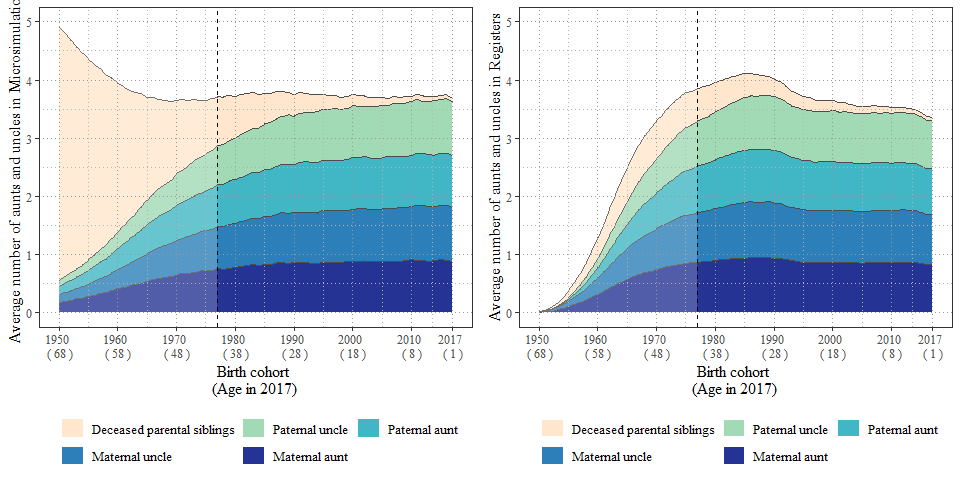
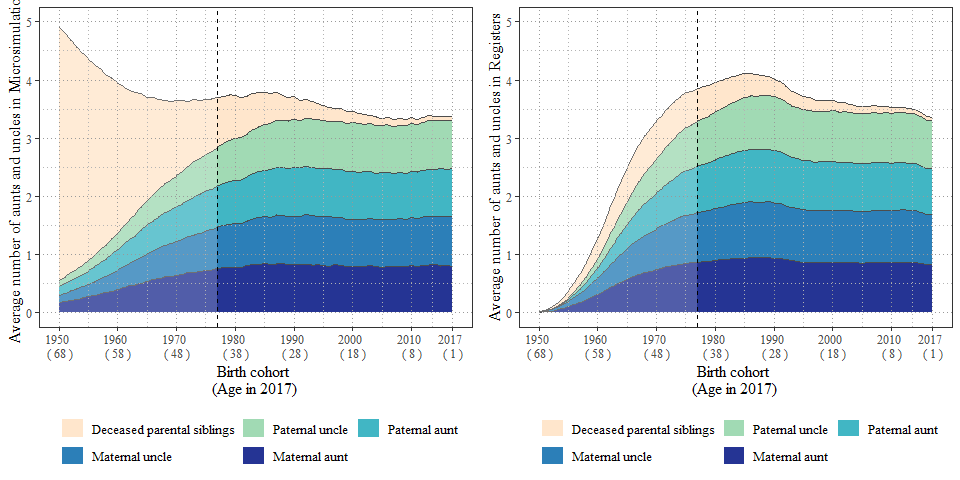
Update Rmd and figures with the simulation using parity-specific rates

diff --git a/3_Compare_Figures.md b/3_Compare_Figures.md
@@ -1,61 +1,62 @@
-Kinship networks over time: comparing Swedish population registers and
-microsimulation outputs. (With no heterogeneous fertility)
+Empirical and microsimulated kinship networks. Comparing and evaluating
+estimates on micro-level data on kin relations for the Swedish
+population
 ================
 …
-2024-03-07
+2024-05-06
 
 #### Fig. 1b: Average number of living and dead grandchildren in 2017 by sex and birth cohort. Microsimulation - SOCSIM (left) vs Registers - Swedish Kinship Universe (right)
 
-<img src="2_Compare_Figures_files/figure-gfm/unnamed-chunk-2-1.png" style="display: block; margin: auto;" /><img src="2_Compare_Figures_files/figure-gfm/unnamed-chunk-2-2.png" style="display: block; margin: auto;" />
+<img src="3_Compare_Figures_files/figure-gfm/unnamed-chunk-2-1.png" style="display: block; margin: auto;" /><img src="3_Compare_Figures_files/figure-gfm/unnamed-chunk-2-2.png" style="display: block; margin: auto;" />
 
 #### Fig. 1a: Proportional distribution of the number of living grandchildren in 2017 by sex and birth cohort. Microsimulation - SOCSIM (left) vs Registers - Swedish Kinship Universe (right)
 
-<img src="2_Compare_Figures_files/figure-gfm/unnamed-chunk-3-1.png" style="display: block; margin: auto;" /><img src="2_Compare_Figures_files/figure-gfm/unnamed-chunk-3-2.png" style="display: block; margin: auto;" />
+<img src="3_Compare_Figures_files/figure-gfm/unnamed-chunk-3-1.png" style="display: block; margin: auto;" /><img src="3_Compare_Figures_files/figure-gfm/unnamed-chunk-3-2.png" style="display: block; margin: auto;" />
 
 #### Fig. 2b: Average number of living and dead children in 2017 by sex and birth cohort. Microsimulation - SOCSIM (left) vs Registers - Swedish Kinship Universe (right)
 
-<img src="2_Compare_Figures_files/figure-gfm/unnamed-chunk-4-1.png" style="display: block; margin: auto;" /><img src="2_Compare_Figures_files/figure-gfm/unnamed-chunk-4-2.png" style="display: block; margin: auto;" />
+<img src="3_Compare_Figures_files/figure-gfm/unnamed-chunk-4-1.png" style="display: block; margin: auto;" /><img src="3_Compare_Figures_files/figure-gfm/unnamed-chunk-4-2.png" style="display: block; margin: auto;" />
 
 #### Fig. 2a: Proportional distribution of the number of living children in 2017 by sex and birth cohort. Microsimulation - SOCSIM (left) vs Registers - Swedish Kinship Universe (right)
 
-<img src="2_Compare_Figures_files/figure-gfm/unnamed-chunk-5-1.png" style="display: block; margin: auto;" /><img src="2_Compare_Figures_files/figure-gfm/unnamed-chunk-5-2.png" style="display: block; margin: auto;" />
+<img src="3_Compare_Figures_files/figure-gfm/unnamed-chunk-5-1.png" style="display: block; margin: auto;" /><img src="3_Compare_Figures_files/figure-gfm/unnamed-chunk-5-2.png" style="display: block; margin: auto;" />
 
 #### Fig. 3: Average number of nieces and nephews by birth cohort and through full or half-sister/brother. Microsimulation - SOCSIM (left) vs Registers - Swedish Kinship Universe (right)
 
-<img src="2_Compare_Figures_files/figure-gfm/unnamed-chunk-6-1.png" style="display: block; margin: auto;" /><img src="2_Compare_Figures_files/figure-gfm/unnamed-chunk-6-2.png" style="display: block; margin: auto;" />
+<img src="3_Compare_Figures_files/figure-gfm/unnamed-chunk-6-1.png" style="display: block; margin: auto;" /><img src="3_Compare_Figures_files/figure-gfm/unnamed-chunk-6-2.png" style="display: block; margin: auto;" />
 
 #### Fig. 4a: Average number of siblings by birth cohort and whether full or half-sibling by birth cohort. Microsimulation - SOCSIM (left) vs Registers - Swedish Kinship Universe (right)
 
-<img src="2_Compare_Figures_files/figure-gfm/unnamed-chunk-7-1.png" style="display: block; margin: auto;" /><img src="2_Compare_Figures_files/figure-gfm/unnamed-chunk-7-2.png" style="display: block; margin: auto;" />
+<img src="3_Compare_Figures_files/figure-gfm/unnamed-chunk-7-1.png" style="display: block; margin: auto;" /><img src="3_Compare_Figures_files/figure-gfm/unnamed-chunk-7-2.png" style="display: block; margin: auto;" />
 
 #### Fig. 4b: Proportional distribution of the number of siblings (half- or full) by birth cohort. Microsimulation - SOCSIM (left) vs Registers - Swedish Kinship Universe (right)
 
-<img src="2_Compare_Figures_files/figure-gfm/unnamed-chunk-8-1.png" style="display: block; margin: auto;" /><img src="2_Compare_Figures_files/figure-gfm/unnamed-chunk-8-2.png" style="display: block; margin: auto;" />
+<img src="3_Compare_Figures_files/figure-gfm/unnamed-chunk-8-1.png" style="display: block; margin: auto;" /><img src="3_Compare_Figures_files/figure-gfm/unnamed-chunk-8-2.png" style="display: block; margin: auto;" />
 
 #### Fig. 5b: Average number of cousins by birth cohort and by type of aunt or uncle. Microsimulation - SOCSIM (left) vs Registers - Swedish Kinship Universe (right)
 
-<img src="2_Compare_Figures_files/figure-gfm/unnamed-chunk-9-1.png" style="display: block; margin: auto;" /><img src="2_Compare_Figures_files/figure-gfm/unnamed-chunk-9-2.png" style="display: block; margin: auto;" />
+<img src="3_Compare_Figures_files/figure-gfm/unnamed-chunk-9-1.png" style="display: block; margin: auto;" /><img src="3_Compare_Figures_files/figure-gfm/unnamed-chunk-9-2.png" style="display: block; margin: auto;" />
 
 #### Fig. 5a: Proportional distribution of the number of cousins by birth cohort. Microsimulation - SOCSIM (left) vs Registers - Swedish Kinship Universe (right)
 
-<img src="2_Compare_Figures_files/figure-gfm/unnamed-chunk-10-1.png" style="display: block; margin: auto;" /><img src="2_Compare_Figures_files/figure-gfm/unnamed-chunk-10-2.png" style="display: block; margin: auto;" />
+<img src="3_Compare_Figures_files/figure-gfm/unnamed-chunk-10-1.png" style="display: block; margin: auto;" /><img src="3_Compare_Figures_files/figure-gfm/unnamed-chunk-10-2.png" style="display: block; margin: auto;" />
 
 #### Fig. 6a. Average number of living, dead, and unregistered parents, by birth cohort 1932–2017. Microsimulation - SOCSIM (left) vs Registers - Swedish Kinship Universe (right)
 
-<img src="2_Compare_Figures_files/figure-gfm/unnamed-chunk-11-1.png" style="display: block; margin: auto;" /><img src="2_Compare_Figures_files/figure-gfm/unnamed-chunk-11-2.png" style="display: block; margin: auto;" />
+<img src="3_Compare_Figures_files/figure-gfm/unnamed-chunk-11-1.png" style="display: block; margin: auto;" /><img src="3_Compare_Figures_files/figure-gfm/unnamed-chunk-11-2.png" style="display: block; margin: auto;" />
 
 #### Fig. 6b. Average number of parent siblings by birth cohort 1950–2017. Microsimulation - SOCSIM (left) vs Registers - Swedish Kinship Universe (right)
 
-<img src="2_Compare_Figures_files/figure-gfm/unnamed-chunk-12-1.png" style="display: block; margin: auto;" /><img src="2_Compare_Figures_files/figure-gfm/unnamed-chunk-12-2.png" style="display: block; margin: auto;" />
+<img src="3_Compare_Figures_files/figure-gfm/unnamed-chunk-12-1.png" style="display: block; margin: auto;" /><img src="3_Compare_Figures_files/figure-gfm/unnamed-chunk-12-2.png" style="display: block; margin: auto;" />
 
 #### Fig. 7: Average number of living, dead, and unregistered grandparents, by birth cohort. Microsimulation - SOCSIM (left) vs Registers - Swedish Kinship Universe (right)
 
-<img src="2_Compare_Figures_files/figure-gfm/unnamed-chunk-13-1.png" style="display: block; margin: auto;" /><img src="2_Compare_Figures_files/figure-gfm/unnamed-chunk-13-2.png" style="display: block; margin: auto;" />
+<img src="3_Compare_Figures_files/figure-gfm/unnamed-chunk-13-1.png" style="display: block; margin: auto;" /><img src="3_Compare_Figures_files/figure-gfm/unnamed-chunk-13-2.png" style="display: block; margin: auto;" />
 
 #### Fig. 8a: Distribution of the total number of kin by birth cohort 1915–2017. SOCSIM outputs
 
-<img src="2_Compare_Figures_files/figure-gfm/unnamed-chunk-14-1.png" style="display: block; margin: auto;" /><img src="2_Compare_Figures_files/figure-gfm/unnamed-chunk-14-2.png" style="display: block; margin: auto;" />
+<img src="3_Compare_Figures_files/figure-gfm/unnamed-chunk-14-1.png" style="display: block; margin: auto;" /><img src="3_Compare_Figures_files/figure-gfm/unnamed-chunk-14-2.png" style="display: block; margin: auto;" />
 
 #### Fig. 8b: Average number of all types of kin by birth cohort 1915–2017. Microsimulation - SOCSIM (left) vs Registers - Swedish Kinship Universe (right)
 
-<img src="2_Compare_Figures_files/figure-gfm/unnamed-chunk-15-1.png" style="display: block; margin: auto;" /><img src="2_Compare_Figures_files/figure-gfm/unnamed-chunk-15-2.png" style="display: block; margin: auto;" />
+<img src="3_Compare_Figures_files/figure-gfm/unnamed-chunk-15-1.png" style="display: block; margin: auto;" /><img src="3_Compare_Figures_files/figure-gfm/unnamed-chunk-15-2.png" style="display: block; margin: auto;" />
